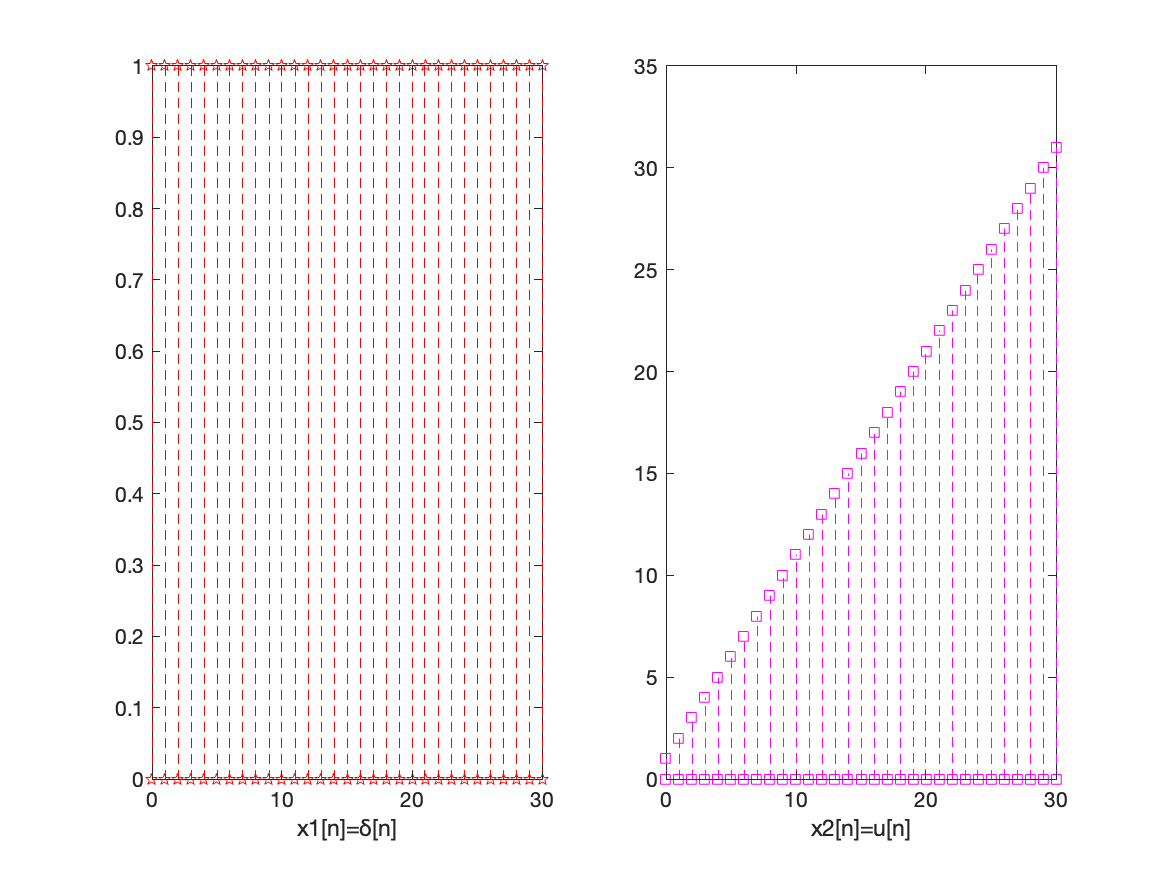
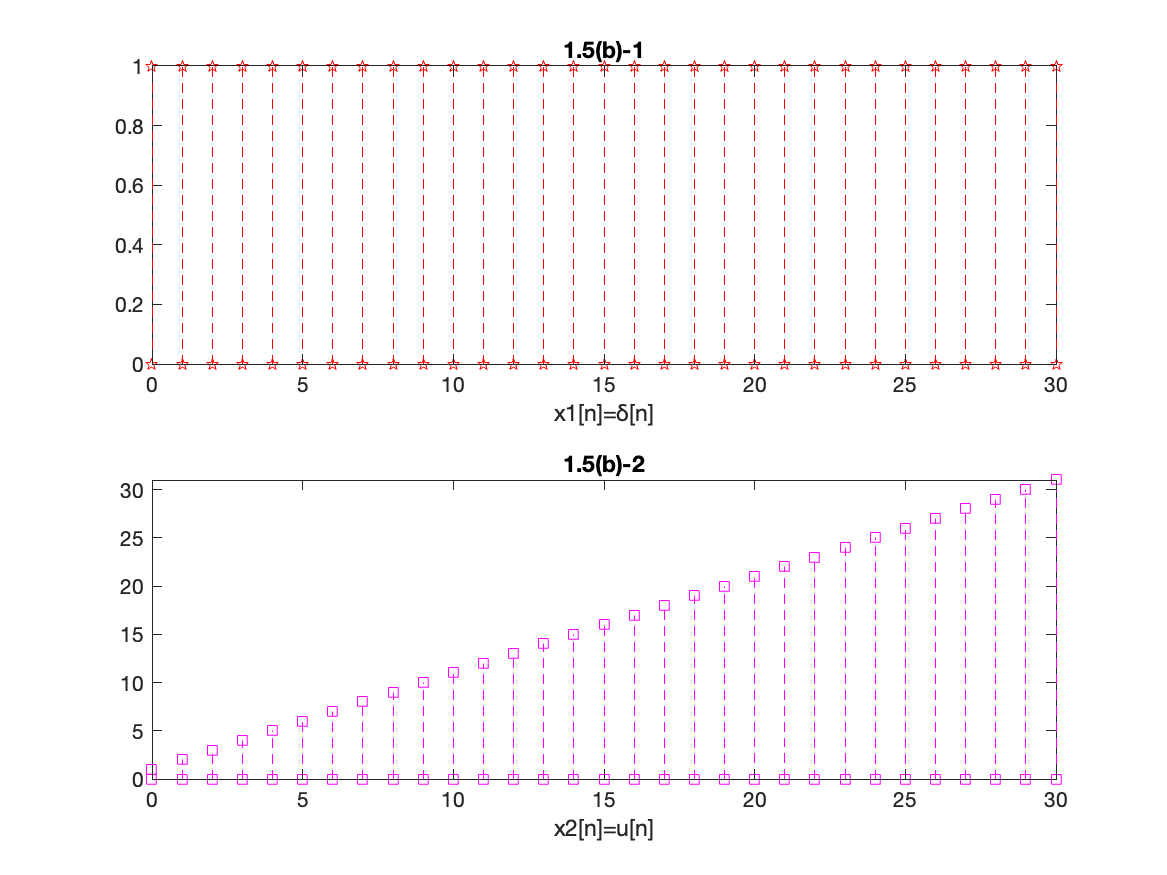
Modify some details

diff --git a/LAB1/P1_4_g1_v2.m b/LAB1/P1_4_g1_v2.m
@@ -1,33 +1,42 @@
 %不满足时不变性、因果性、可逆性
 %时不变性分析,由3，4图的对比可知.
+% Time invariant
 n=-5:1:5;
-x1=[zeros(1,7) 1 zeros(1,3)];
-x2=[zeros(1,6) 1 zeros(1,4)];
-x3=[zeros(1,8) 1 zeros(1,2)];
-x4=[zeros(1,7) 1 zeros(1,3)];
+x1=n>=-2;
+y1=n>=-1;
+x2=n>=-4;
+y2=n>=-2;
+y3=n>=-3;
 
-subplot(2,2,1);
+
+subplot(3,2,1);
 stem(n,x1);
-title('1.4(g)-1');
+title('1.4(g1)-1');
 xlabel('n')
-ylabel('x[n]=δ[n-2]');
+ylabel('x_1[n]=u[n+2]');
 
-subplot(2,2,2);
+subplot(3,2,2);
+stem(n,y1);
+title('1.4(g1)-2');
+xlabel('n')
+ylabel('y_1[n]=u[n+1]');
+
+subplot(3,2,3);
 stem(n,x2);
-title('1.4(g)-2');
+title('1.4(g1)-3');
 xlabel('n')
-ylabel('x[2n]=δ[n-1]');
+ylabel('x_2[n]=x_1[n+2]=u[n+4]');
 
-subplot(2,2,3);
-stem(n,x3);
-title('1.4(g)-3');
+subplot(3,2,4);
+stem(n,y2);
+title('1.4(g1)-4');
 xlabel('n')
-ylabel('y[n-2]=x[2(n-2)]=δ[n-3]');
+ylabel('y_2[n]=x_2[2n]=u[n+2]');
 
-subplot(2,2,4);
-stem(n,x4);
-title('1.4(g)-4');
+subplot(3,2,5);
+stem(n,y3);
+title('1.4(g1)-5');
 xlabel('n')
-ylabel('x[2n-2]=δ[n-2]');
+ylabel('y_1[n+2]');
 
 saveas(gcf, "LAB1/P1_4_g1_out2.png")

diff --git a/LAB1/P1_4_f_v2.m b/LAB1/P1_4_f_v2.m
@@ -1,33 +1,37 @@
-% Stability, causality analysis (y趋近于无穷，不符合稳定性要求）
-%可逆性分析(两个不同的x得到了相同的y，不满足可逆性)
-
+% Stability analysis
 n=-5:1:5;
 x1=n;
 y1=n.*x1;
 
-subplot(3,1,1)
+subplot(4,1,1)
 stem(n,y1,'g--s');
 title('1.4(f)-1');
-xlabel('x1');
-ylabel('y1');
+xlabel('x_1[n]=n');
+ylabel('y_1[n]=nx_1[n]');
 
-% 时间无关性分析
-% time-invariant
-
+% invertibility and time-invariant analysis
 x2=[zeros(1,5) 1 zeros(1,5)];
-y2=n.*x2;
-y3=(n+1).*x2
+x3=3 .* x2
+y2=n .* x2;
+y3=n .* x3;
+y4=(n+1) .* x2;
 
-subplot(3,1,2);
+subplot(4,1,2);
 stem(n,y2,'r--h');
 title('1.4(f)-2');
-xlabel('x2');
-ylabel('y2');
+xlabel('x_2[n]');
+ylabel('y_2[n]');
 
-subplot(3,1,3);
-stem(n,y3,'m--^');
+subplot(4,1,3);
+stem(n,y3,'r--h');
 title('1.4(f)-3');
-xlabel('x3');
-ylabel('y3');
+xlabel('x_3[n]');
+ylabel('y_3[n]');
+
+subplot(4,1,4);
+stem(n,y4,'m--^');
+title('1.4(f)-4');
+xlabel('x_2[n]');
+ylabel('y_4[n]');
 
 saveas(gcf, "LAB1/P1_4_f_out2.png")

diff --git a/LAB1/P1_4_g3_v2.m b/LAB1/P1_4_g3_v2.m
@@ -1,20 +1,28 @@
-%可逆性分析
-n=-10:1:10;
-x1=[zeros(1,10) ones(1,11)];
-x2=[zeros(1,11) 1 0 1 0 1 0 1 0 1 0];
-x3=[zeros(1,10) 1 0 1 0 1 0 1 0 1 0 1];
+% Invertable analysis
+n=-5:1:5;
+x1=[zeros(1,4) 1 zeros(1,6)]
+y1=[zeros(1,11)]
+x2=[zeros(1,2) 1 zeros(1,8)]
+y2=[zeros(1,11)]
 
-subplot(3,1,1);
+subplot(2,2,1);
 stem(n,x1);
-title('1.4(g)-7');
-xlabel('x[n]=u[n]');
-subplot(3,1,2);
-stem(n,x2);
-title('1.4(g)-8');
-xlabel('x[n]=u[2n-1]');
-subplot(3,1,3);
-stem(n,x3);
-title('1.4(g)-9');
-xlabel('y[n]=x[2n]=u[2n]');
+title('1.4(g3)-1');
+xlabel('x_1[n]=δ[n+1]');
 
-saveas(gcf, "LAB1/P1_5_g3_out.png")
+subplot(2,2,2);
+stem(n,y1);
+title('1.4(g3)-2');
+xlabel('y_1[n]');
+
+subplot(2,2,3);
+stem(n,x2);
+title('1.4(g3)-3');
+xlabel('x_2[n]=δ[n+3]');
+
+subplot(2,2,4);
+stem(n,y2);
+title('1.4(g3)-4');
+xlabel('y_2[n]');
+
+saveas(gcf, "LAB1/P1_4_g3_out2.png")

diff --git a/LAB1/P1_4_d.m b/LAB1/P1_4_d.m
@@ -8,24 +8,24 @@ subplot(4,1,1);
 stem(n,x1);
 title('1.4 (d)-1');
 xlabel('n');
-ylabel('x1[n]');
+ylabel('x_1[n]');
 
 subplot(4,1,2);
 stem(n,x2);
 title('1.4 (d)-2');
 xlabel('n');
-ylabel('x2[n]');
+ylabel('x_2[n]');
 
 subplot(4,1,3);
 stem(n,y1,'m--s');
 title('1.4 (d)-3');
 xlabel('n');
-ylabel('sin(\pi/2) x1[n]');
+ylabel('(sin(\pi/2) x_1[n])');
 
 subplot(4,1,4);
 stem(n,y2,'r--h');
 title('1.4(d)-4');
 xlabel('n');
-ylabel('sin(\pi/2) x2[n]');
+ylabel('(sin(\pi/2) x_2[n])');
 
 saveas(gcf, "LAB1/P1_4_d_out.png")

diff --git a/LAB1/P1_5_c.m b/LAB1/P1_5_c.m
@@ -8,20 +8,21 @@ yn1=-1;
 y1=diffeqn(a,x1,yn1);
 y2=diffeqn(a,x2,yn1);
 
-y3=2.*y1-y2
+y3=2.*y1-y2;
 
-subplot(1,2,1);
+subplot(3,1,1);
 stem(n,y1,'r--p');
+title('1.5(c)-1');
 xlabel('x_1[n]=u[n]');
 
-subplot(1,2,2);
+subplot(3,1,2);
 stem(n,y2,'m--s');
+title('1.5(c)-1');
 xlabel('x_2[n]=2*u[n]');
 
-saveas(gcf, "LAB1/P1_5_c_out1.png")
-
-figure(2);
+subplot(3,1,3);
 stem(n,y3,'^');
+title('1.5(c)-1');
 xlabel('2*y_1[n]-y_2[n]');
 
-saveas(gcf, "LAB1/P1_5_c_out2.png")
+saveas(gcf, "LAB1/P1_5_c_out.png")

diff --git a/LAB1/P1_4_e.m b/LAB1/P1_4_e.m
@@ -1,17 +1,17 @@
 % Linearity not satified
 n=-5:1:5;
-x1=n;
-x2=3*n;
+x1=n>=0;
+x2=3*x1;
 
 y1=x1.^3;
 y2=x2.^3;
 
-stem(x1,y1);
+stem(n,y1);
 hold on
-stem(x1,y2,'r');
+stem(n,y2,'r');
 title('1.4(e)');
-legend({'x[n]=n','x[n]=3n'}, 'Location', 'northeast');
+legend({'x[n]=u[n]','x[n]=3u[n]'}, 'Location', 'northeast');
 xlabel('x[n]');
-ylabel('y[n]');
+ylabel('y[n]=x^3[n]');
 
 saveas(gcf, "LAB1/P1_4_e_out1.png")

diff --git a/LAB1/P1_4_g2.m b/LAB1/P1_4_g2.m
@@ -1,16 +1,17 @@
 %因果性分析,x[n]超前了
+% Causal
 n=-5:1:5;
 x1=[zeros(1,7) 1 zeros(1,3)];
 y1=[zeros(1,6) 1 zeros(1,4)];
 
 subplot(2,1,1);
 stem(n,x1);
-title('1,4(g)-5');
+title('1,4(g2)-1');
 xlabel('x[n]=δ[n-2]')
 
 subplot(2,1,2);
 stem(n,y1);
-title('1.4(g)-6');
+title('1.4(g2)-2');
 xlabel('y[n]=x[2n]=δ[n-1]')
 
-saveas(gcf, "LAB1/P1_5_g2_out.png")
+saveas(gcf, "LAB1/P1_4_g2_out.png")

diff --git a/LAB1/P1_5_b.m b/LAB1/P1_5_b.m
@@ -6,12 +6,14 @@ yn1=0;
 y1=diffeqn(a,x1,yn1);
 y2=diffeqn(a,x2,yn1);
 
-subplot(1,2,1);
+subplot(2,1,1);
 stem(n,y1,'r--p');
+title('1.5(b)-1')
 xlabel('x1[n]=δ[n]');
 
-subplot(1,2,2);
+subplot(2,1,2);
 stem(n,y2,'m--s');
+title('1.5(b)-2')
 xlabel('x2[n]=u[n]');
 
 saveas(gcf, "LAB1/P1_5_b_out.png")

diff --git a/LAB1/P1_5_d.m b/LAB1/P1_5_d.m
@@ -7,12 +7,14 @@ y1=diffeqn(a,x,yn1);
 yn1=0.5;
 y2=diffeqn(a,x,yn1);
 
-subplot(1,2,1);
+subplot(2,1,1);
 stem(n,y1,'r--p');
+title('1.5(d)-1');
 xlabel('y[-1]=0');
 
-subplot(1,2,2);
+subplot(2,1,2);
 stem(n,y2,'m--s');
+title('1.5(d)-2');
 xlabel('y[-1]=0.5');
 
 saveas(gcf, "LAB1/P1_5_d_out.png")

diff --git a/LAB1/P1_4_g3.m b/LAB1/P1_4_g3.m
@@ -17,4 +17,4 @@ stem(n,x3);
 title('1.4(g)-9');
 xlabel('y[n]=x[2n]=u[2n]');
 
-saveas(gcf, "LAB1/P1_5_g3_out.png")
+saveas(gcf, "LAB1/P1_4_g3_out.png")

diff --git a/LAB1/P1_4_g2_v2.m b/LAB1/P1_4_g2_v2.m
@@ -7,6 +7,7 @@ subplot(2,1,1);
 stem(n,x1);
 title('1,4(g)-5');
 xlabel('x[n]=δ[n-2]')
+
 subplot(2,1,2);
 stem(n,y1);
 title('1.4(g)-6');
